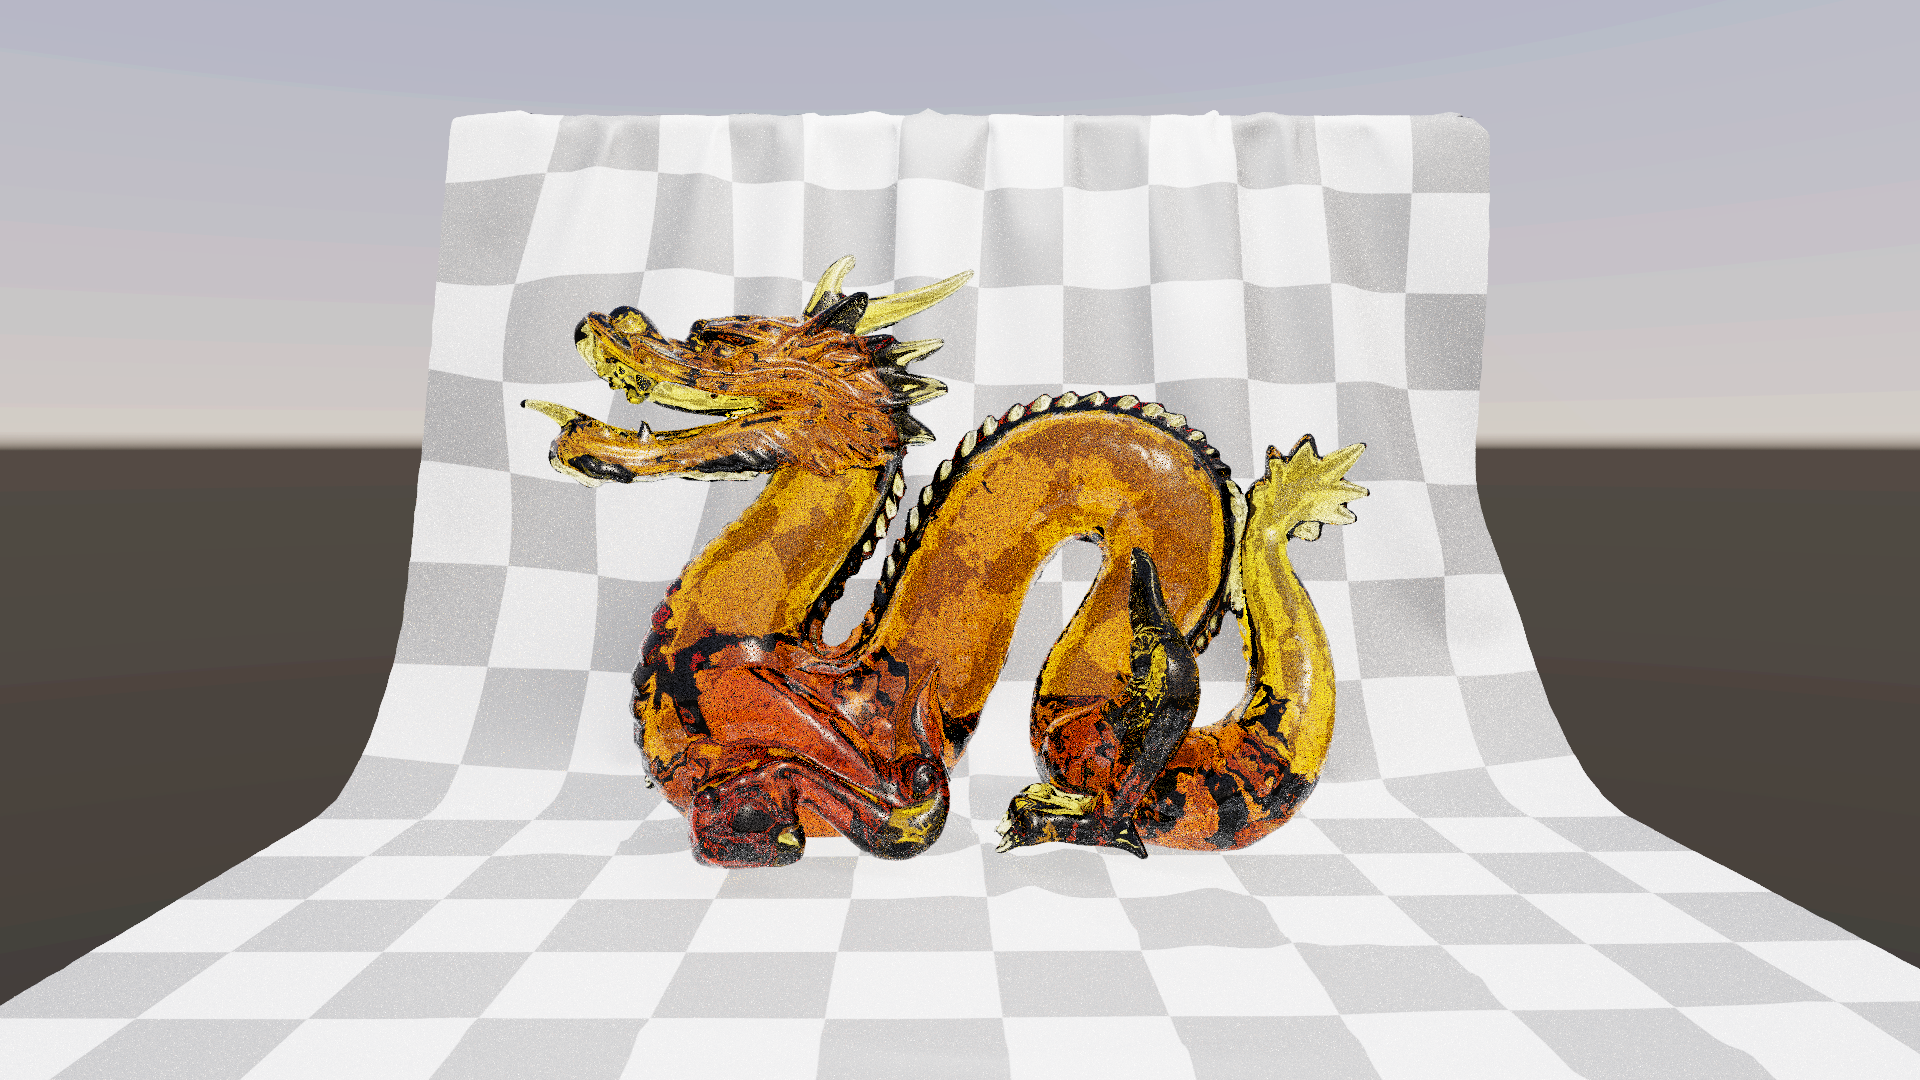
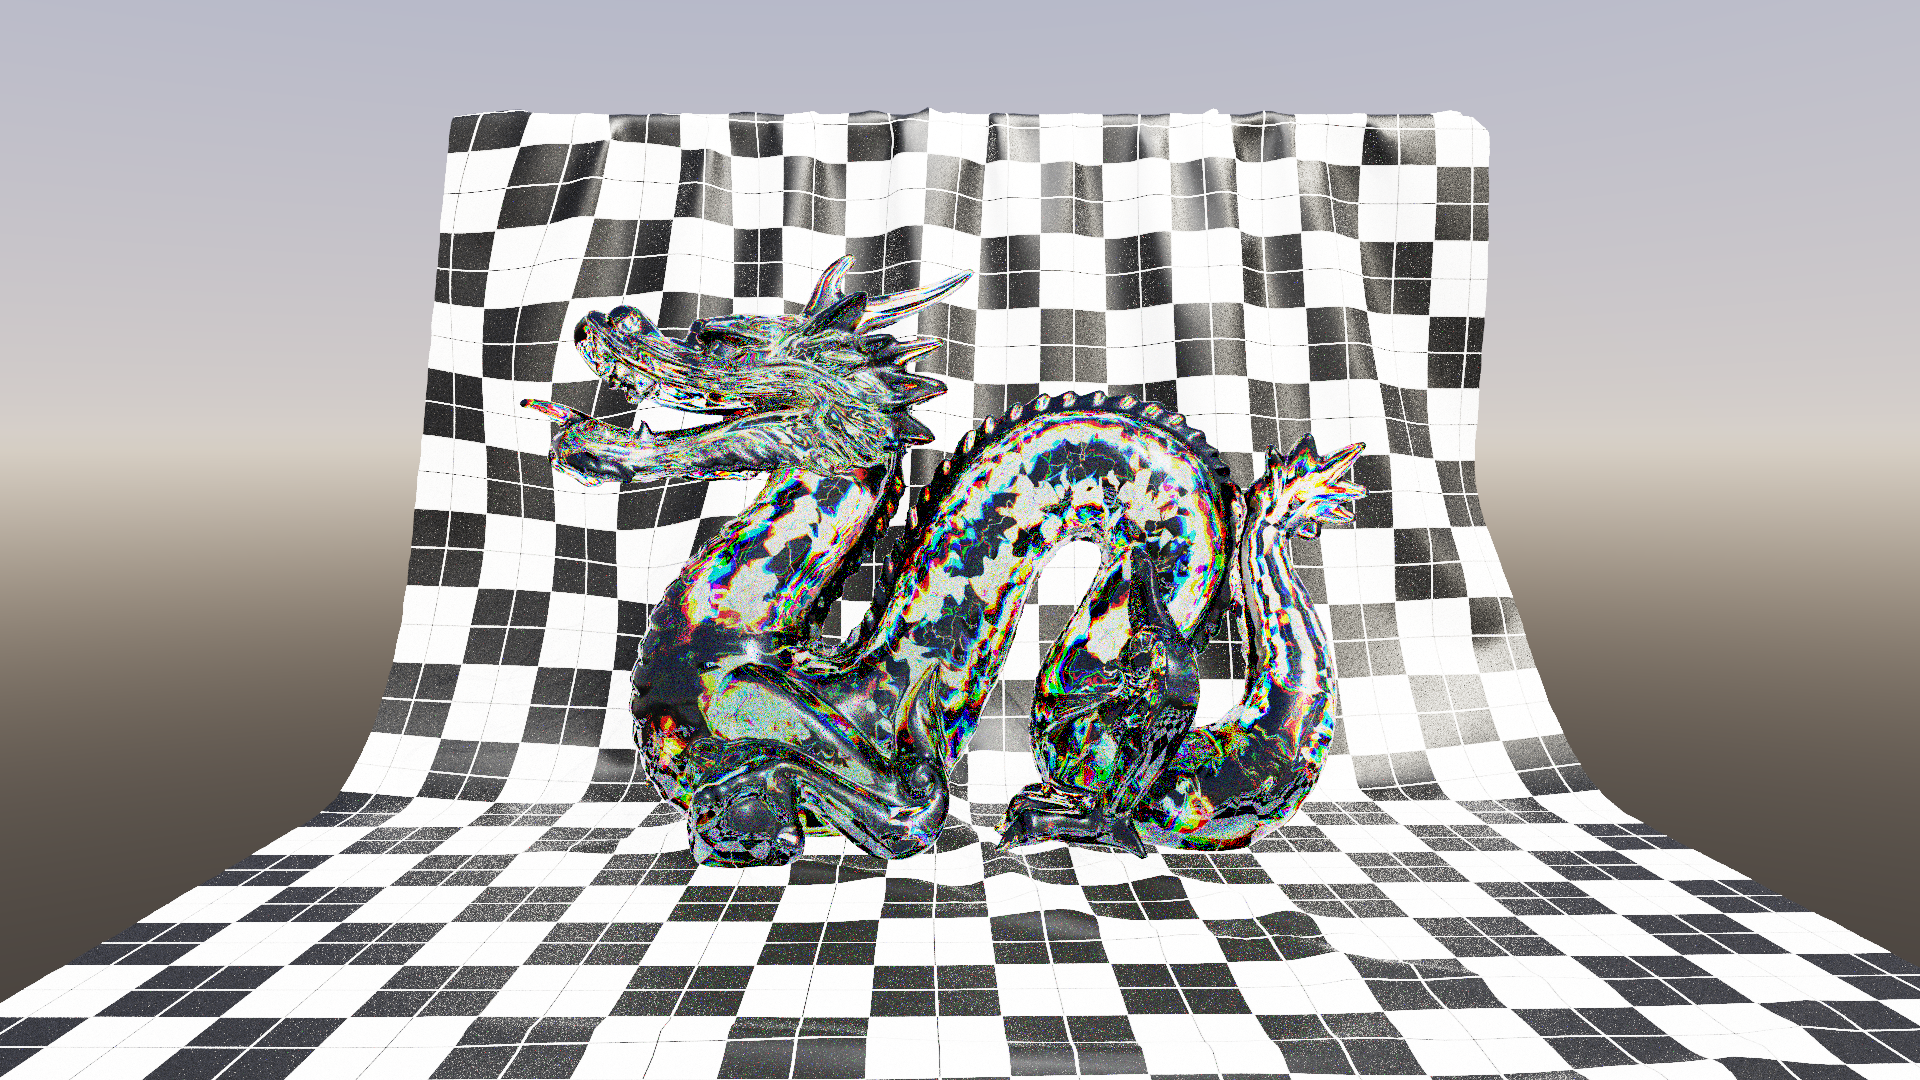
docs(readme): standardize Dragon telemetry and refresh showcase renders with latest build
- Standardize Dragon single-GPU telemetry row to match other showcase scenes.
- Re-render all 4 showcase screenshots directly from the latest engine build (v1.23.0).
- Fix PointInstance City render to eliminate old floating-building artifacts and restore grounded terrain shading.

diff --git a/README.md b/README.md
@@ -56,7 +56,7 @@ Pathways delivers high-throughput real-time path tracing across diverse geometri
 | **Geometry & Instances** | 134,995 Triangles (135K) • 1 Instance |
 | **Acceleration Structures** | BLAS: 6.22 MB • TLAS: 0.50 KB |
 | **BSDF Material Models** | Pure Dielectric Fresnel ($n = 1.5$), Volumetric Absorption ($\beta_{\text{abs}}$), Snell's Law Refraction, Ground Caustics |
-| **RDNA 4 Single-GPU (4K Native)** | **5.72 ms (174.8 FPS)** (Wavefront DGC) / **6.58 ms** • **5.04 – 6.82 GigaRays/s** |
+| **RDNA 4 Single-GPU (4K Native)** | **5.72 ms (174.8 FPS)** • **5.04 GigaRays/s** |
 | **RDNA 4 Dual-GPU (4K Checkerboard)** | **3.83 ms (261.1 FPS)** • **8.66 GigaRays/s** (**1.72x Scaling**) |
 | **Wavefront Specialization** | Specialized dielectric microkernel runs at **< 40 VGPRs** with **100% Wave32 hardware occupancy** |
 
